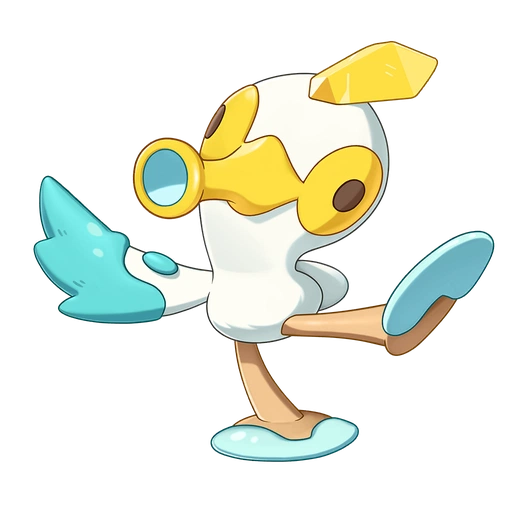
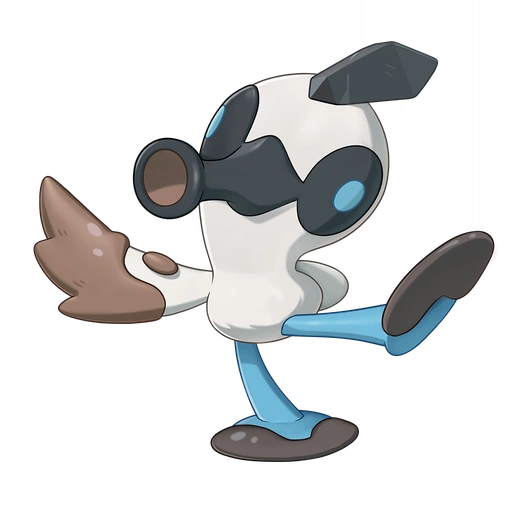
fix: 启用 S5 异色图片切换 v5.0.3

Changed region(s): [[0.25, 0.0625, 0.9688, 0.9062], [0.0625, 0.3438, 0.4062, 0.6562], [0.375, 0.5625, 0.4062, 0.5938]]

diff --git a/js/app.js b/js/app.js
@@ -340,7 +340,7 @@ if (typeof caches !== 'undefined') {
           <span class="sprite-attrs">${attrsHtml}</span>
         `;
 
-        // 占位符控制 + 常规/异色图交替（清单驱动，S1~S4 有异色图）
+        // 占位符控制 + 常规/异色图交替（清单驱动，S1~S5 有异色图）
         const wrapEl = label.querySelector('.sprite-img-wrap');
         const imgEl = wrapEl.querySelector('.sprite-img');
         bindPlaceholder(wrapEl, imgEl);
@@ -580,7 +580,7 @@ if (typeof caches !== 'undefined') {
       img.addEventListener('error', () => wrap.classList.remove('has-img'));
     }
 
-    // ==================== 常规/异色图交替（S1~S4，双图交叠平滑过渡） ====================
+    // ==================== 常规/异色图交替（S1~S5，双图交叠平滑过渡） ====================
     // 异色图清单由 data/yise_images.json 驱动，仅在清单内的精灵启用交替，
     // 避免对不存在异色图的精灵产生 404 请求噪音；未来赛季更新只需补充清单。
     // 实现：容器内叠加两层 <img>（常规图/异色图各一层，均已预载），到点后仅切换两层
